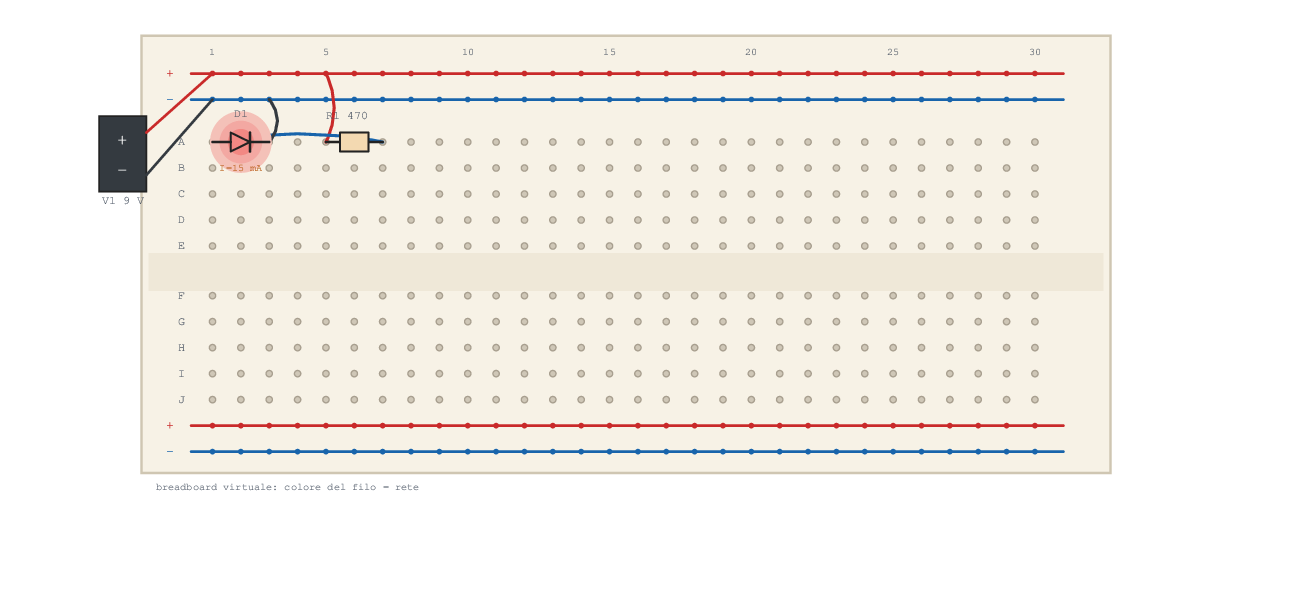
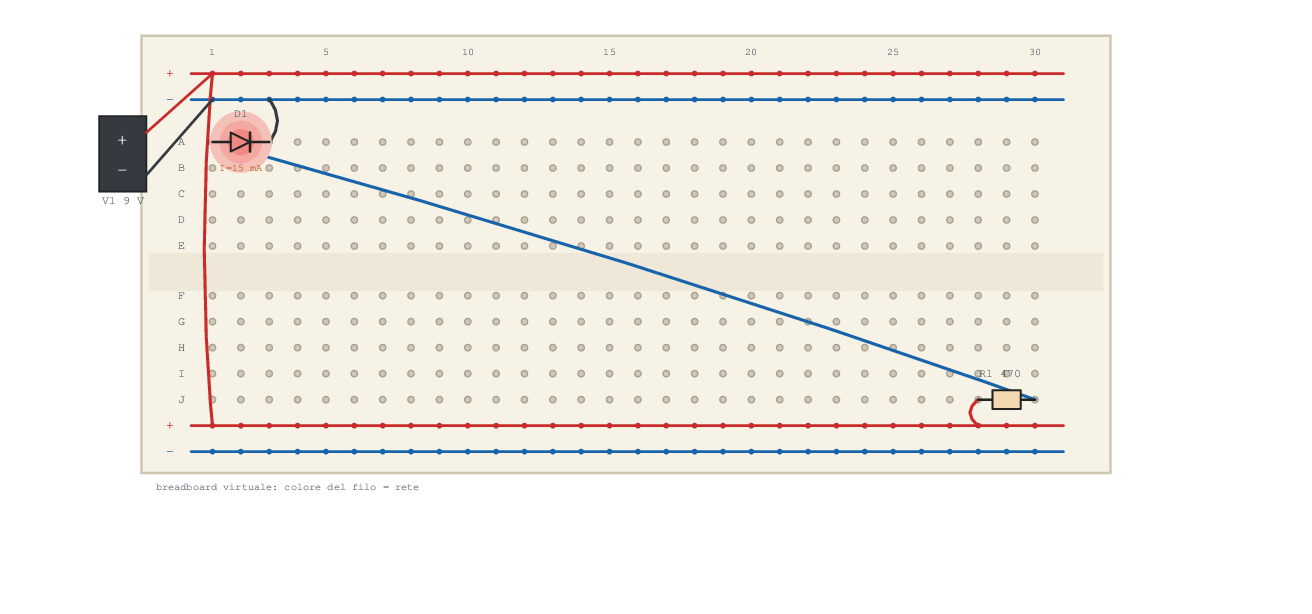
Add spacious breadboard placement and optimize action

diff --git a/clab/breadboards.py b/clab/breadboards.py
@@ -1,3 +1,4 @@
+import math
 import re
 
 COLS = 30
@@ -158,7 +159,7 @@ def _is_rail_hole(name):
     return name.startswith(("T+", "T-", "B+", "B-"))
 
 
-def generate(doc):
+def generate(doc, spread=True):
     layout = {"parts": {}, "wires": []}
     gnd = doc.ground
     sources = sorted(pid for pid in doc.parts if doc.part(pid) is not None and doc.part(pid).kind == "V")
@@ -177,25 +178,8 @@ def generate(doc):
         rail_col[rail] = col + 1
         return f"{rail}{col}"
 
-    groups = (("A", "B", "C", "D", "E"), ("F", "G", "H", "I", "J"))
-    state = {"group": 0, "col": 1}
-
-    def allocate(span):
-        while True:
-            if span > COLS:
-                raise LayoutError(f"componente troppo largo: {span} colonne")
-            if state["col"] + span - 1 <= COLS:
-                col0 = state["col"]
-                state["col"] += span + 1
-                rows = groups[state["group"]]
-                row = rows[min(2, (col0 - 1) // 10)]
-                return row, col0
-            state["group"] += 1
-            state["col"] = 1
-            if state["group"] >= len(groups):
-                raise LayoutError("breadboard piena: troppi pin")
-
     vpos = 0
+    pending = []
     for pid in sorted(doc.parts):
         p = doc.part(pid)
         if p is None:
@@ -205,24 +189,51 @@ def generate(doc):
             layout["parts"][pid] = {"pins": {pin: rail_hole(gnd)}}
             continue
         if p.kind == "V" and pid == primary and primary_rails:
-            pins = {}
-            for pin in p.spec.pins:
-                net = doc.net_of(pid, pin)
-                pins[pin] = rail_hole(net)
+            pins = {pin: rail_hole(doc.net_of(pid, pin)) for pin in p.spec.pins}
             layout["parts"][pid] = {"pins": pins, "pos": (4, 130 + 80 * vpos)}
             vpos += 1
             continue
+        pending.append(pid)
+
+    used = {0: set(), 1: set()}
+    centers = []
+
+    def place(p):
         offs = _offsets(len(p.spec.pins))
         span = max(offs) + 1
-        row, col0 = allocate(span)
-        pins = {}
-        for i, pin in enumerate(p.spec.pins):
-            pins[pin] = f"{row}{col0 + offs[i]}"
+        best = None
+        for row in ROWS:
+            group = 0 if row in "ABCDE" else 1
+            for c0 in range(1, COLS - span + 2):
+                cols = [c0 + offs[i] for i in range(len(p.spec.pins))]
+                if any(col in used[group] for col in cols):
+                    continue
+                xs = [COL_X[c] for c in cols]
+                cx, cy = sum(xs) / len(xs), ROW_Y[row]
+                score = (min(math.hypot(cx - x, cy - y) for x, y in centers)
+                         if centers else 0.0)
+                key = (score, -ROWS.index(row), -c0)
+                if best is None or key > best[0]:
+                    best = (key, row, c0, cols, cx, cy)
+        return best, offs
+
+    pending.sort(key=lambda pid: (-(max(_offsets(len(doc.part(pid).spec.pins))) + 1), pid))
+    for pid in pending:
+        p = doc.part(pid)
+        best, offs = place(p)
+        if best is None:
+            raise LayoutError(f"breadboard piena: {pid}")
+        _, row, c0, cols, cx, cy = best
+        pins = {pin: f"{row}{c0 + offs[i]}" for i, pin in enumerate(p.spec.pins)}
         entry = {"pins": pins}
         if p.kind == "V":
             entry["pos"] = (4, 130 + 80 * vpos)
             vpos += 1
         layout["parts"][pid] = entry
+        group = 0 if row in "ABCDE" else 1
+        for col in cols:
+            used[group].add(col)
+        centers.append((cx, cy))
 
     route_wires(doc, layout, pos_net=pos_net, gnd=gnd)
     return layout
@@ -240,6 +251,7 @@ def route_wires(doc, layout, pos_net=None, gnd=None):
     gnd = gnd if gnd is not None else doc.ground
     pos_net = pos_net if pos_net is not None else _positive_net(doc)
     layout["wires"] = []
+    bottom_used = {gnd: False, pos_net: False}
 
     def hole_col(hole):
         return int(HOLE_RE.fullmatch(hole).group(2))
@@ -252,16 +264,27 @@ def route_wires(doc, layout, pos_net=None, gnd=None):
             if hole:
                 holes.append(hole)
         if net == gnd or net == pos_net:
-            rail = "T-" if net == gnd else "T+"
+            top = "T-" if net == gnd else "T+"
+            bottom = "B-" if net == gnd else "B+"
             for hole in holes:
                 if _is_rail_hole(hole):
                     continue
+                kind, col = parse_hole(hole)
+                if kind in "FGHIJ":
+                    rail = bottom
+                    bottom_used[net] = True
+                else:
+                    rail = top
                 layout["wires"].append({"net": net,
-                                        "points": [hole, f"{rail}{hole_col(hole)}"]})
+                                        "points": [hole, f"{rail}{col}"]})
         elif len(holes) >= 2:
             hub = holes[0]
             for hole in holes[1:]:
                 layout["wires"].append({"net": net, "points": [hub, hole]})
+    if bottom_used.get(gnd):
+        layout["wires"].append({"net": gnd, "points": ["T-1", "B-1"]})
+    if pos_net is not None and bottom_used.get(pos_net):
+        layout["wires"].append({"net": pos_net, "points": ["T+1", "B+1"]})
     return layout
 
 

diff --git a/clab/gui.py b/clab/gui.py
@@ -245,6 +245,12 @@ class App:
         self.nb.add(bbf, text="Breadboard")
         self.nb.add(plotf, text="Grafico")
         self.nb.add(dataf, text="Dati")
+        bbar = ttk.Frame(bbf, style="Card.TFrame")
+        bbar.pack(fill="x")
+        ttk.Button(bbar, text="Ottimizza disposizione", command=self._optimize_board).pack(
+            side="left", pady=2)
+        ttk.Label(bbar, text="trascina · R ruota · Canc elimina",
+                  style="Muted.TLabel").pack(side="left", padx=8)
         self.bb_canvas = tk.Canvas(bbf, bg=CARD, highlightthickness=0)
         self.bb_canvas.pack(fill="both", expand=True)
         self.bb_canvas.bind("<Button-1>", self._bb_on_press)
@@ -496,6 +502,22 @@ class App:
         self._update_props()
         self._fill()
         self._plot()
+
+    def _optimize_board(self):
+        if self.doc is None:
+            return
+        self._push_undo()
+        try:
+            board = generate(self.doc)
+        except LayoutError as e:
+            self.history.pop()
+            self._hint(str(e))
+            return
+        self.doc.board = board
+        self.selected = None
+        self.dirty = True
+        self._after_board_change()
+        self._hint("Disposizione ottimizzata: massima distanza tra i componenti")
 
     def _breadboard_active(self):
         return self.nb.select() == str(self.bb_frame)

diff --git a/tests/test_breadboard.py b/tests/test_breadboard.py
@@ -69,7 +69,11 @@ class BreadboardTests(unittest.TestCase):
         doc = load_doc("exp03")
         layout = generate(doc)
         doc.board = layout
-        ok, msg = shift_part(doc, layout, "R1", 1, 0)
+        ok, msg = False, "nessuna direzione libera"
+        for dcol, drow in ((1, 0), (-1, 0), (0, 1), (0, -1), (1, 1), (-1, -1)):
+            ok, msg = shift_part(doc, layout, "R1", dcol, drow)
+            if ok:
+                break
         self.assertTrue(ok, msg)
         reroute(doc, layout)
         self.assertEqual(validate_layout(doc, layout), [])

diff --git a/docs/GUI.md b/docs/GUI.md
@@ -149,6 +149,9 @@ fori, rail di alimentazione, componenti e jumper colorati per rete.
   reti aperte e corti
 - il test `tests/test_breadboard.py` genera e valida tutti gli esercizi, prova
   il determinismo, la rimozione di un pin e un corto artificiale
+- **Ottimizza disposizione** rigenera il layout distribuendo i componenti alla
+  massima distanza (greedy farthest-point su righe/colonne, usa anche i rail
+  inferiori); riduce le sovrapposizioni di etichette e moduli
 - **editing**: trascina un componente da un foro all'altro (snap al foro), `R`
   per ruotare, `Canc` per eliminare; i jumper vengono ri-rotati, il layout e'
   validato e salvato in `<progetto>.board.json`

diff --git a/README.md b/README.md
@@ -18,6 +18,8 @@ database sono generici e non legati a un corso specifico.
 - GUI con schema animato: corrente che scorre, LED che si accendono, guasti
 - Breadboard 2D generata automaticamente e **editabile**: trascina, ruota, elimina,
   undo, validazione elettrica e layout salvato per progetto
+- assemblaggio "spazioso": i componenti sono distribuiti massimizzando la
+  distanza, con pulsante **Ottimizza disposizione**
 - Editor grafico: palette, spostamento, rotazione, collegamento pin-to-pin
 - Pannello "Codice": JSON del circuito e del layout, modificabile e applicabile
 - Progetti utente salvati in `data/projects/`

diff --git a/docs/ROADMAP.md b/docs/ROADMAP.md
@@ -66,6 +66,7 @@ Da fare:
 - [ ] "Fissa i valori attuali come attesi" per generare `expect`
 - [x] Generatore breadboard 2D per tutti i circuiti
 - [x] Editing breadboard: drag/rotate/delete, undo, validazione, sidecar
+- [x] Disposizione spaziosa (massima distanza) e pulsante di ottimizzazione
 - [ ] Jumper manuali e breadboard-first: derivazione reti e sync schema
 
 Tecnologia attuale: Tkinter + Matplotlib, senza dipendenze di sistema.
